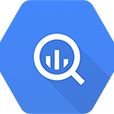
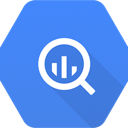
Add Firefox support
- Rename to Cost Estimator for BigQuery: AMO rejects names containing
  Firefox, and a name starting with a Google trademark may be refused.
- Drop the background script and the scripting permission. It injected
  a content.js path that does not exist and could not read tab URLs
  without the tabs permission; the declared content script does the work.
- Add browser_specific_settings.gecko for AMO signing.
- Resize icons to true 16/48/128 squares.
- Set the RUN button label with textContent instead of innerHTML.
- Add a Makefile to build the upload package.

diff --git a/scripts/content.js b/scripts/content.js
@@ -45,9 +45,9 @@ if (!window.bqCostObserverInitiated) {
             node.nodeValue = `This query will process ${size} ${unit} when run (Estimated Cost: $${cost.toFixed(2)})`;
 
             if (cost < 0.6) {
-                document.querySelector('.cfc-progress-button-resolved .cm-button').innerHTML = `RUN for $${cost.toFixed(2)}`
+                document.querySelector('.cfc-progress-button-resolved .cm-button').textContent = `RUN for $${cost.toFixed(2)}`
             } else {
-                document.querySelector('.cfc-progress-button-resolved .cm-button').innerHTML = `⚠ RUN for $${cost.toFixed(2)}`
+                document.querySelector('.cfc-progress-button-resolved .cm-button').textContent = `⚠ RUN for $${cost.toFixed(2)}`
             }
         }
     }
